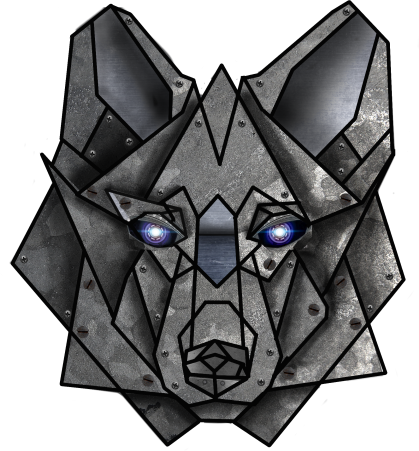
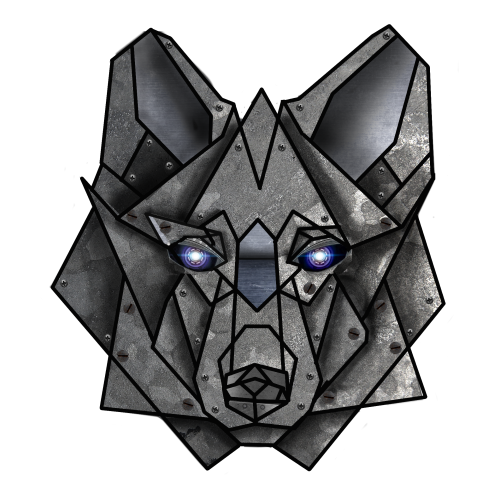
images and styling

diff --git a/templates/base.html b/templates/base.html
@@ -28,9 +28,9 @@
             <img src="{% static '/img/wolf-logo_D5.png' %}" width="40" alt="">
           </a>
           <a class="nav-item nav-link active" href="{% url 'home' %}">Home <span class="sr-only">(current)</span></a>
-          <a class="nav-item nav-link" href="{% url 'projects' %}">Programmer</a>
-          <a class="nav-item nav-link" href="{% url 'teach' %}">Teacher</a>
-          <a class="nav-item nav-link" href="{% url 'blog' %}">Blogger</a>
+          <a class="nav-item nav-link" href="{% url 'projects' %}">Developer</a>
+          <a class="nav-item nav-link" href="{% url 'teach' %}">Math</a>
+          <a class="nav-item nav-link" href="{% url 'blog' %}">Blog</a>
         </div>
       </div>
     </nav>
@@ -47,9 +47,9 @@
         <h3>WolfMath<span>.Dev</span></h3>
         <p class="footer-links">
           <a href="{% url 'home' %}">Home</a> ·
-          <a href="{% url 'projects' %}">Programmer</a> ·
-          <a href="{% url 'teach' %}">Teacher</a> ·
-          <a href="{% url 'blog' %}">Blogger</a> ·
+          <a href="{% url 'projects' %}">Developer</a> ·
+          <a href="{% url 'teach' %}">Math</a> ·
+          <a href="{% url 'blog' %}">Blog</a> ·
           <a href="#">About</a> ·
           <a href="#">Contact</a>
         </p>

diff --git a/templates/home.html b/templates/home.html
@@ -10,9 +10,9 @@
     <div class="col-md-4">
       <a href="{% url 'projects' %}">
         <div class="card h-100 border-0" style="width: 18rem;">
-          <img class="card-img-top" src="{% static '/img/wolf-logo_D7.png' %}" alt="Programmer" height="66%">
+          <img class="card-img-top" src="{% static '/img/wolf-head_small.png' %}" alt="Programmer" height="66%">
           <div class="card-body">
-            <h4 class="card-title">Developer</h4>
+            <h4 class="card-title">Web Developer</h4>
             <p class="card-text">Hire Me.</p>
           </div>
         </div>

diff --git a/teach/templates/teach/index.html b/teach/templates/teach/index.html
@@ -2,7 +2,7 @@
 {% load static %}
 
 {% block content %}
-  <h1>teacher</h1>
+  <h1>Math</h1>
 
   <p>The vast majority of my lesson plans were written in LaTeX markup langugage. I am working on compiling them into
   a single work called <em>The Big Open Source Math Book.</em> There's a lot of work left, but you can 

diff --git a/static/css/main.css b/static/css/main.css
@@ -70,6 +70,8 @@ a {
 
 .h-100:hover h4, .h-100:hover p {
   color: #14213d !important;
+  transform: scale(1.2);
+  transition: 0.2s;
 }
 
 /* Navbar */
